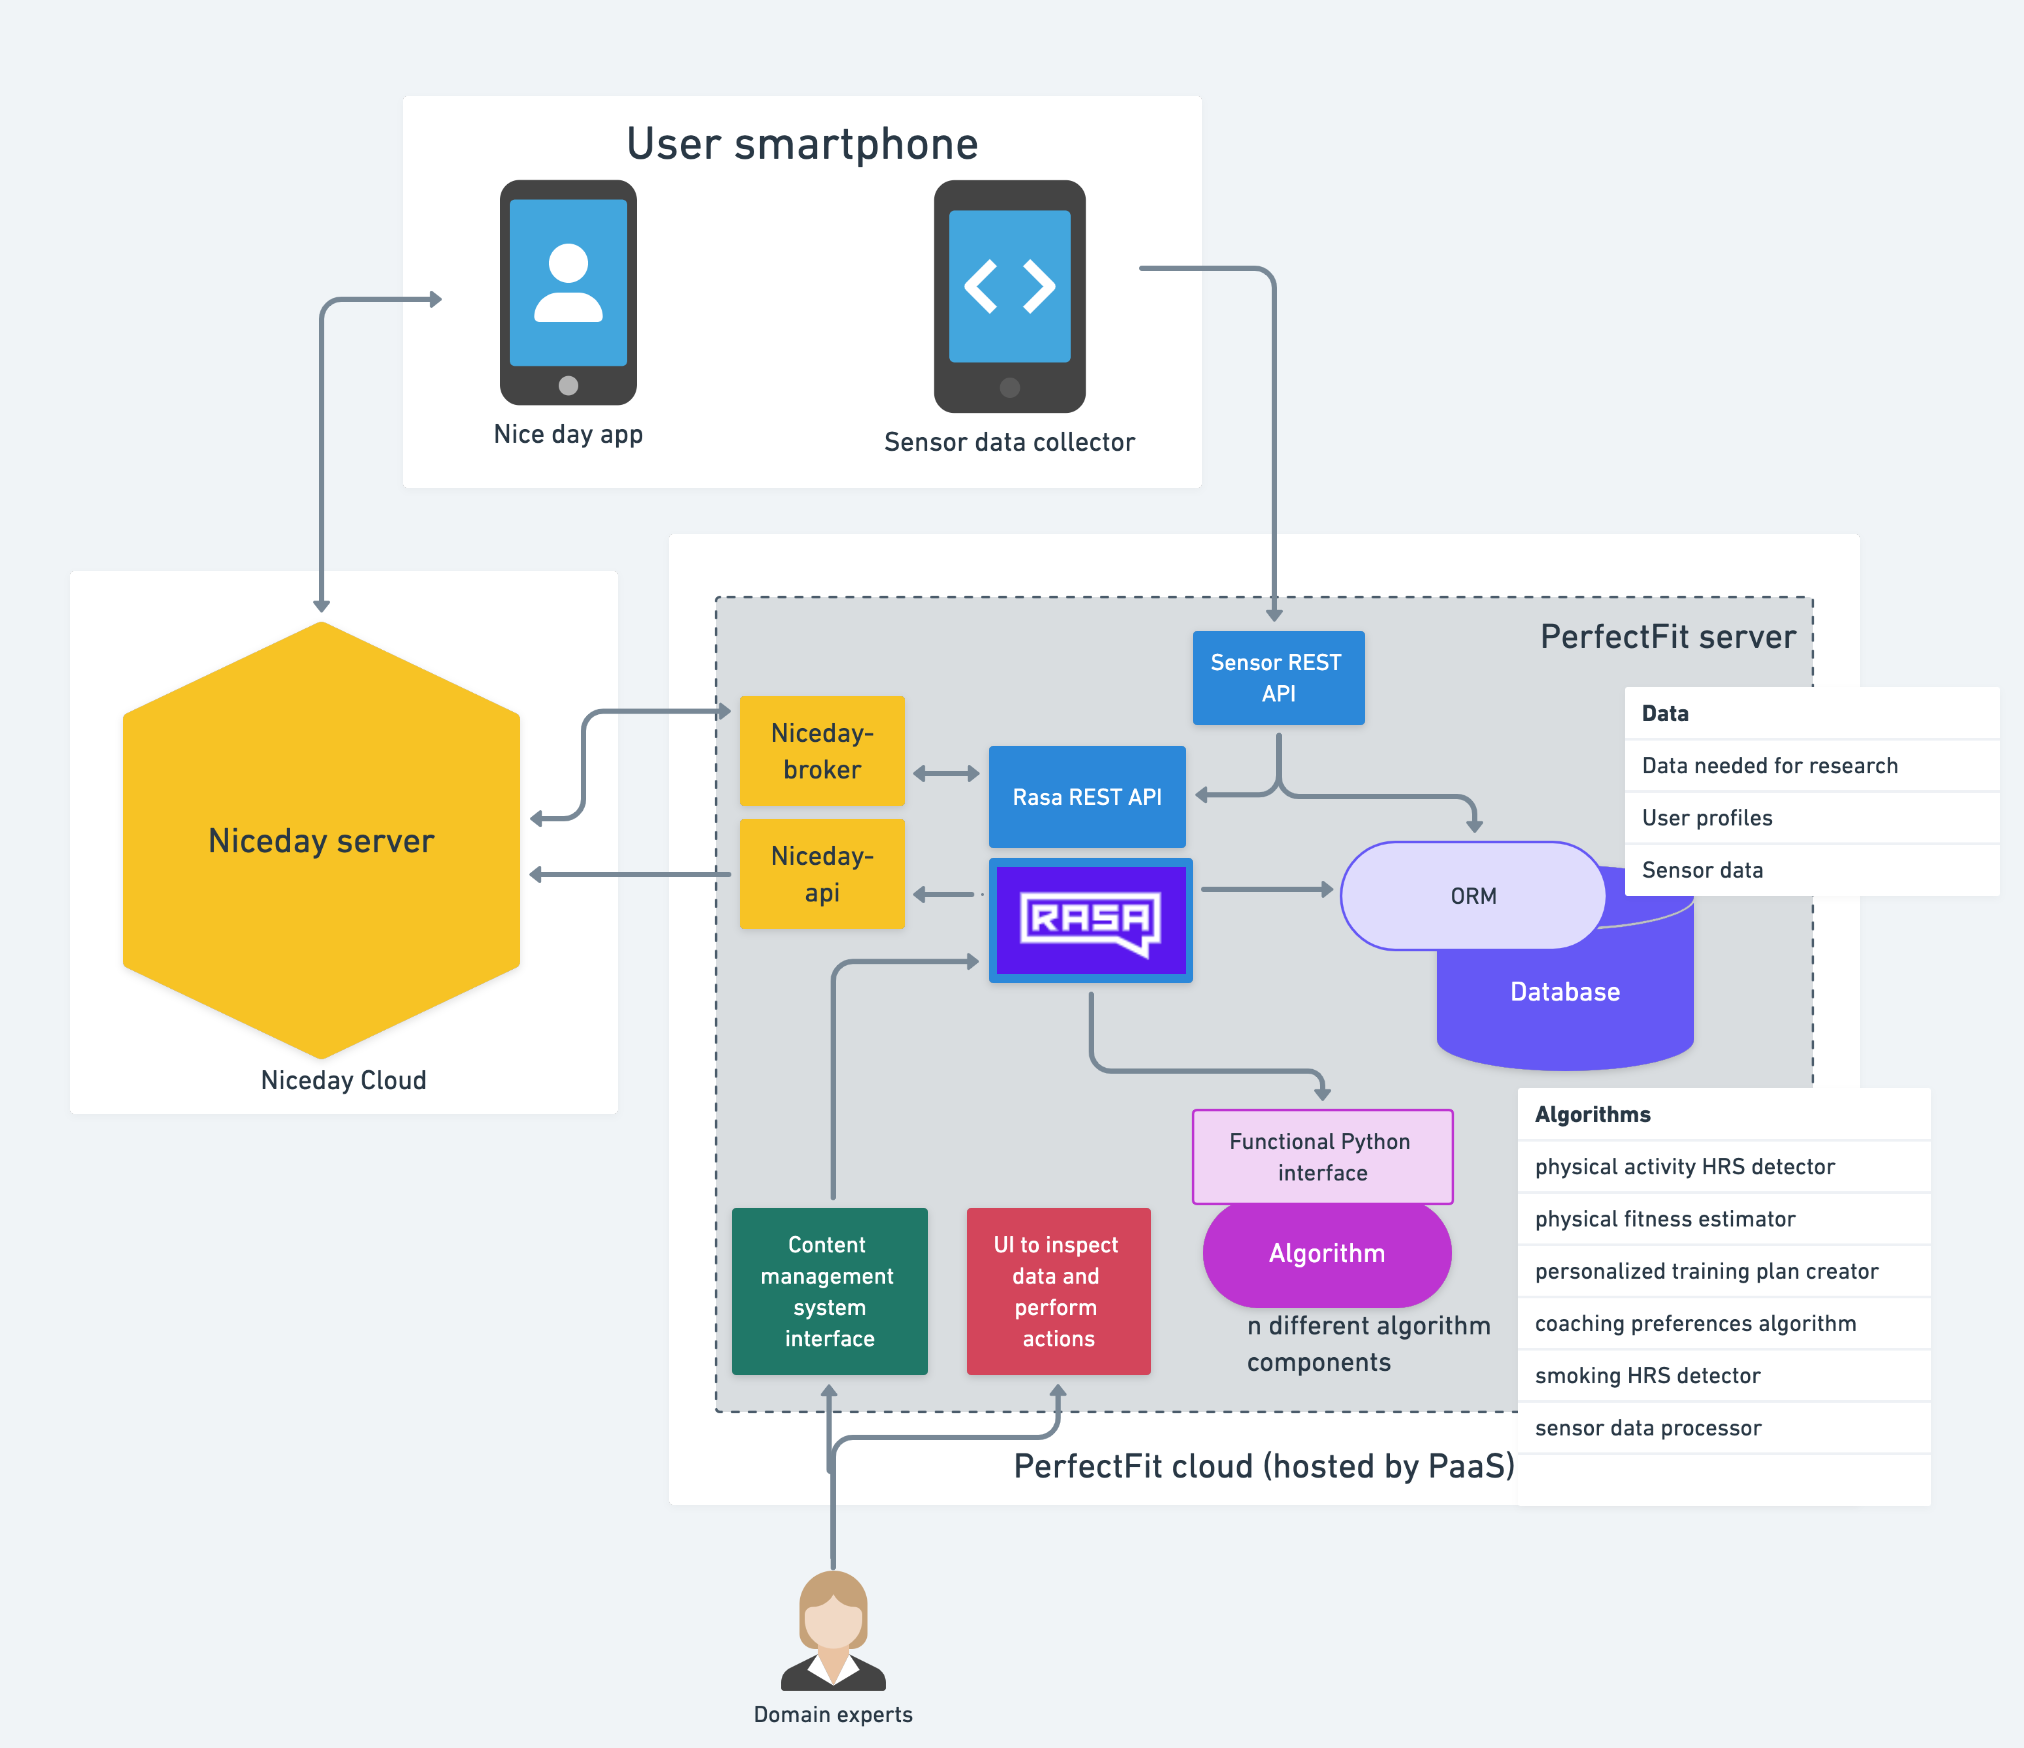
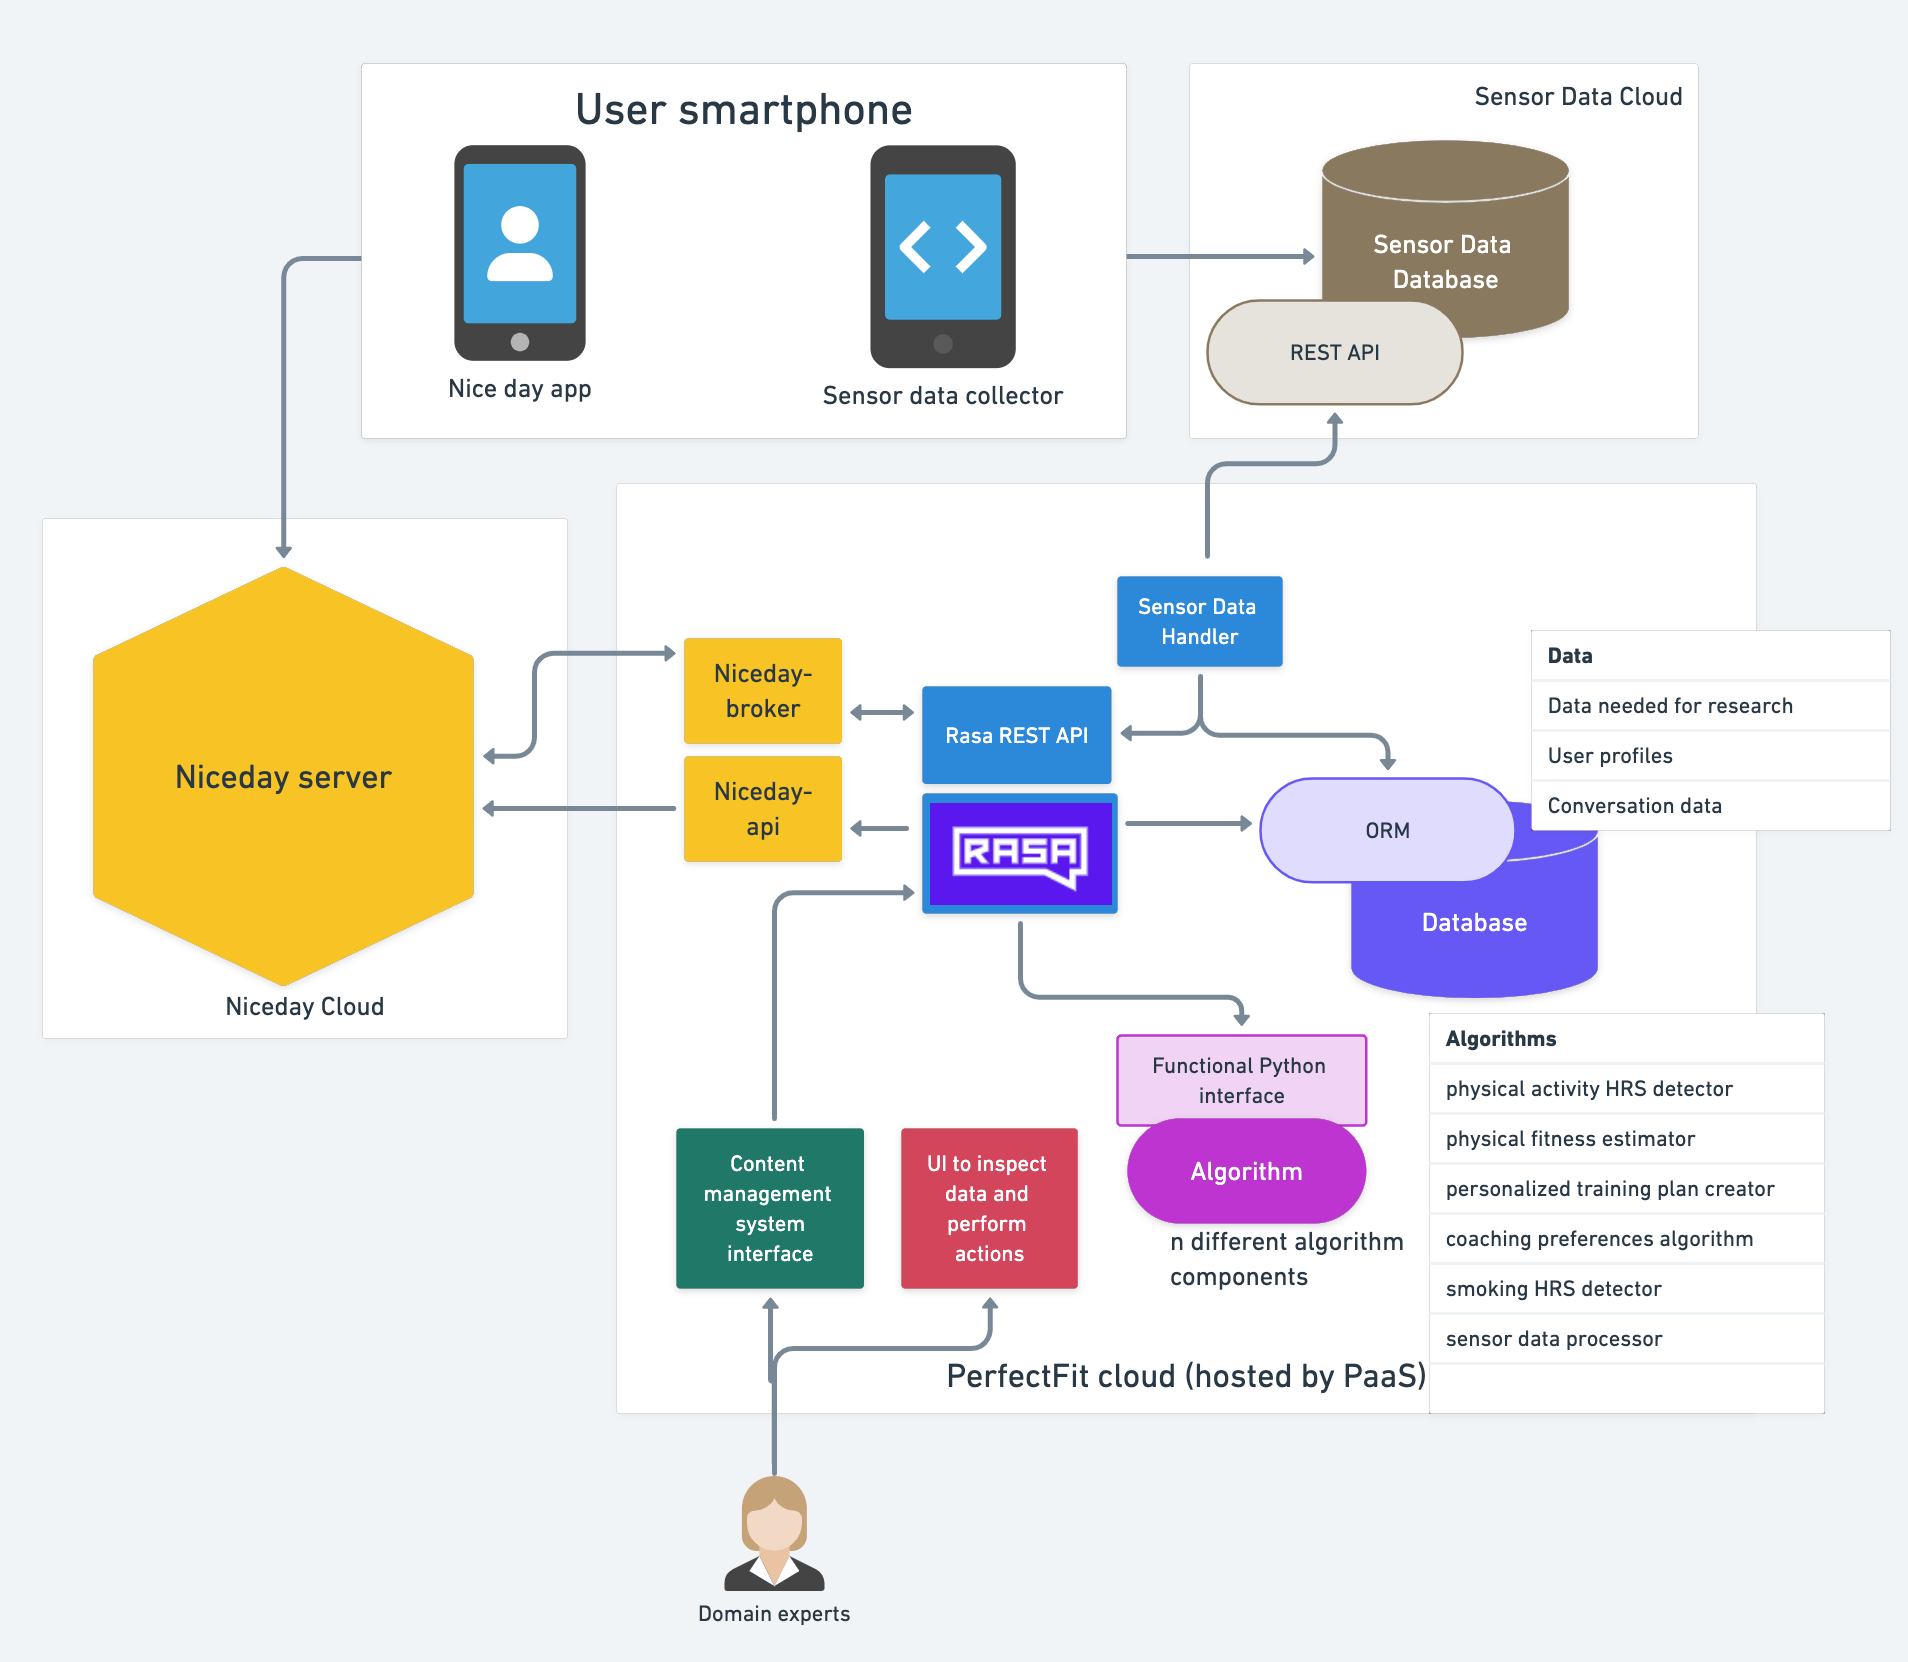
Update design sensor data handling

diff --git a/docs/design.md b/docs/design.md
@@ -45,7 +45,8 @@ Its main features are:
 A separate app for collecting sensor data that is needed to estimate physical capacity. 
 * The Niceday app itself cannot gather this data.
 * At the start of an activity the sensor data collector is triggered to start recording sensor data.
-* After an activity or upon Wifi connection the data is pushed to the PerfectFit sensor data REST API.
+* After an activity or upon Wifi connection the data is pushed to the Sensor Data Database.
+* Data is exposed by a REST API
 * Will be based on an existing app and developed outside of scope of PerfectFit
 virtual coach system.
 --- 
@@ -57,7 +58,7 @@ virtual coach system.
   - user profile data, 
   - app-interaction data
   - messages
-* Handles authentication
+* Handles user authentication
 
 --- 
 ### PerfectFit virtual coach system components
@@ -67,8 +68,8 @@ NiceDay app. We will make use of Niceday trackers to gather data,
 and make use of the Niceday daily planner to plan activities.
 
 
-### Sensor data REST API
-A Sensor REST API that allows for the sensor data collection app to send data to PerfectFit system.
+### Sensor Data Handler
+A service that pulls data from the Sensor Data Database when needed.
 * Validates and preprocesses data
 * Writes data directly to the database using the ORM
 
